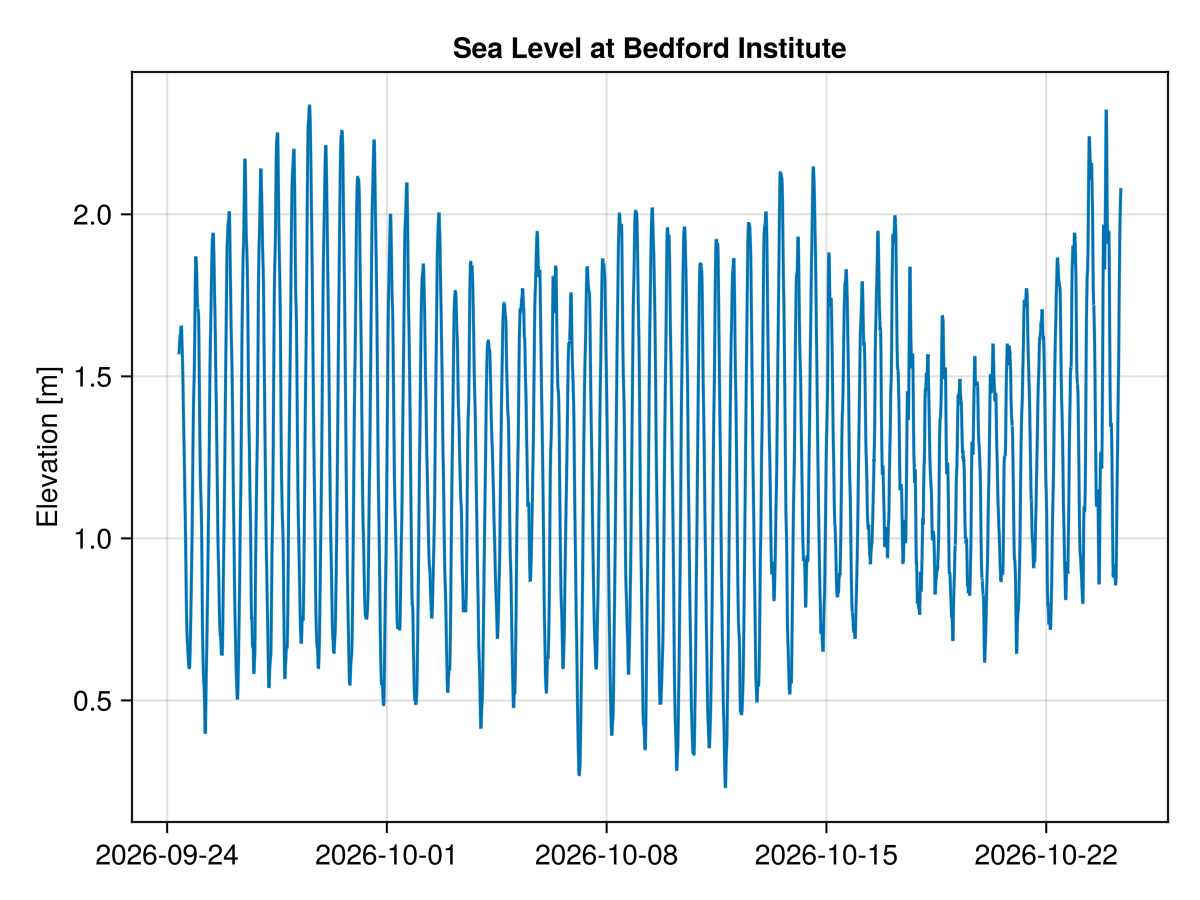
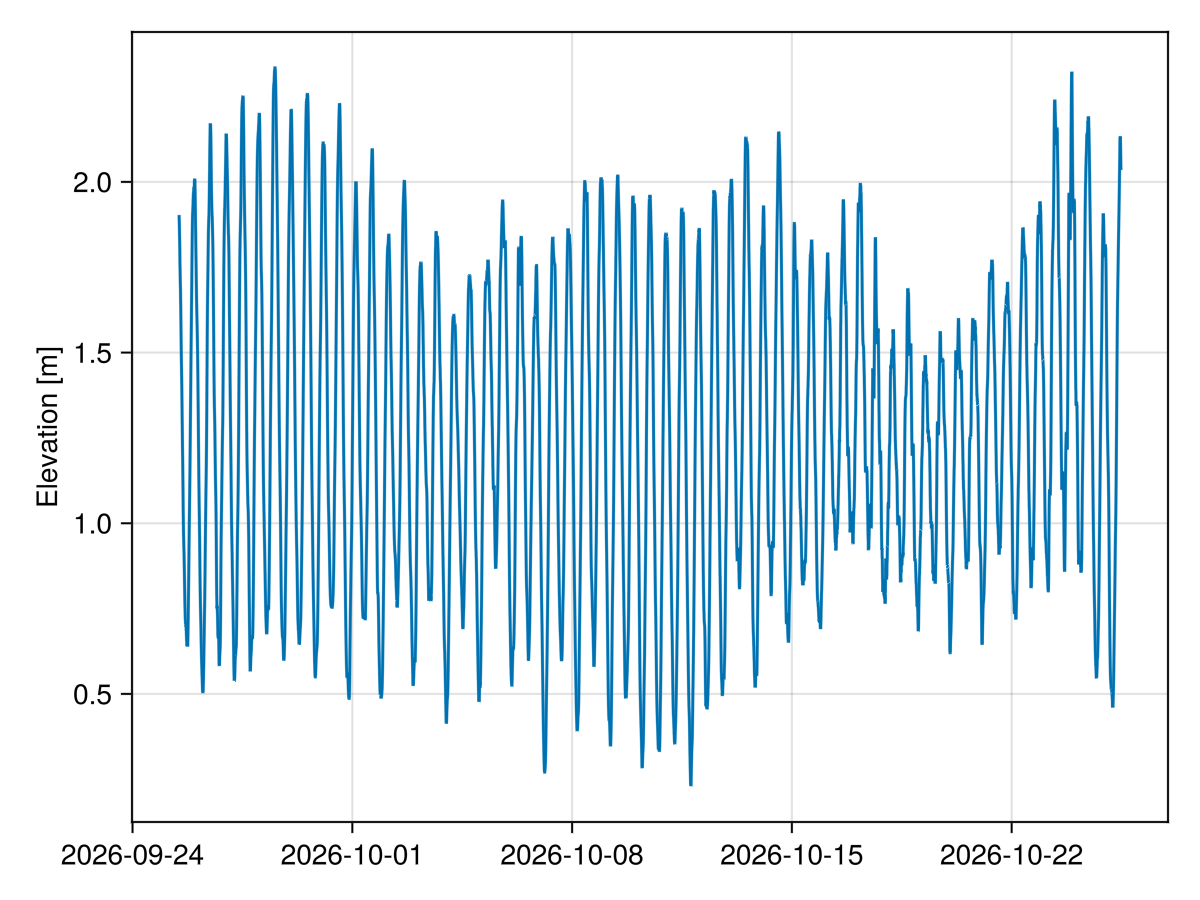
Improve tide gauge download

diff --git a/docs/src/examples.md b/docs/src/examples.md
@@ -498,11 +498,10 @@ using OceanAnalysis, CSV, DataFrames
 using GLMakie # or CairoMakie
 
 search = "Bedford" # full name is "Bedford Institute"
-name, csv = get_tide_gauge_file(search)
+csv = get_tide_gauge_file(search)
 data = CSV.read(csv, DataFrame)
 
-fig = lines(data.time, data.value;
-    axis=(ylabel="Elevation [m]", title="Sea Level at $name"))
+fig = lines(data.time, data.value; axis=(ylabel="Elevation [m]",))
 
 save("tide_gauge_timeseries.png", fig, px_per_unit=2)
 ```

diff --git a/docs/src/changelog.md b/docs/src/changelog.md
@@ -6,13 +6,15 @@ Release notes:
 
 ### Changed
 
--
+- `get_tide_gauge_file()` no longer returns the ID, which is of limited utility
+
+- `get_tide_gauge_file()` gains a new argument, `use_cache`, to prevent unneeded downloads
 
 ### Added
 
 - `read_rsk()` to read RBR "Ruskin" files.
 
-` `downcast_sbe()` to find indices of a pressure vector that correspond to the
+- `downcast_sbe()` to find indices of a pressure vector that correspond to the
   downcast.
 
 
